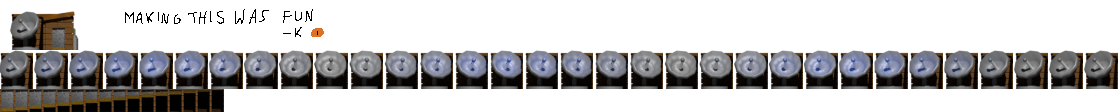
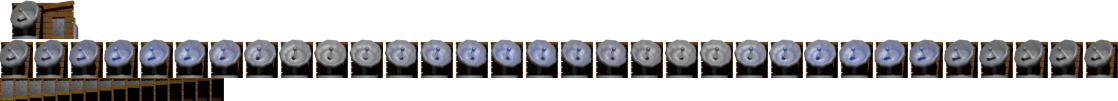
Fixed up the building sprite

Changed region(s): [[0.0, 0.0, 1.0, 0.9802], [0.2433, 0.2376, 0.3041, 0.3267]]

diff --git a/Clonkworks.c4d/0_Automation.c4d/Control Hub.c4d/Script.c b/Clonkworks.c4d/0_Automation.c4d/Control Hub.c4d/Script.c
@@ -21,7 +21,7 @@ func SoundConnect(){
 }
 
 func Initialize(){
-    if(Conveyor = FindObject2(Find_AtPoint(0,30),Find_ID(CNVY),Find_NoContainer(),Find_Func("IsRotorTarget"))){
+    if(Conveyor = FindObject2(Find_AtPoint(0,20),Find_ID(CNVY),Find_NoContainer(),Find_Func("IsRotorTarget"))){
         LocalN("Extension",Conveyor) = this;
         SetGraphics("Funnel",this,GetID());
         Sound("Connect");
